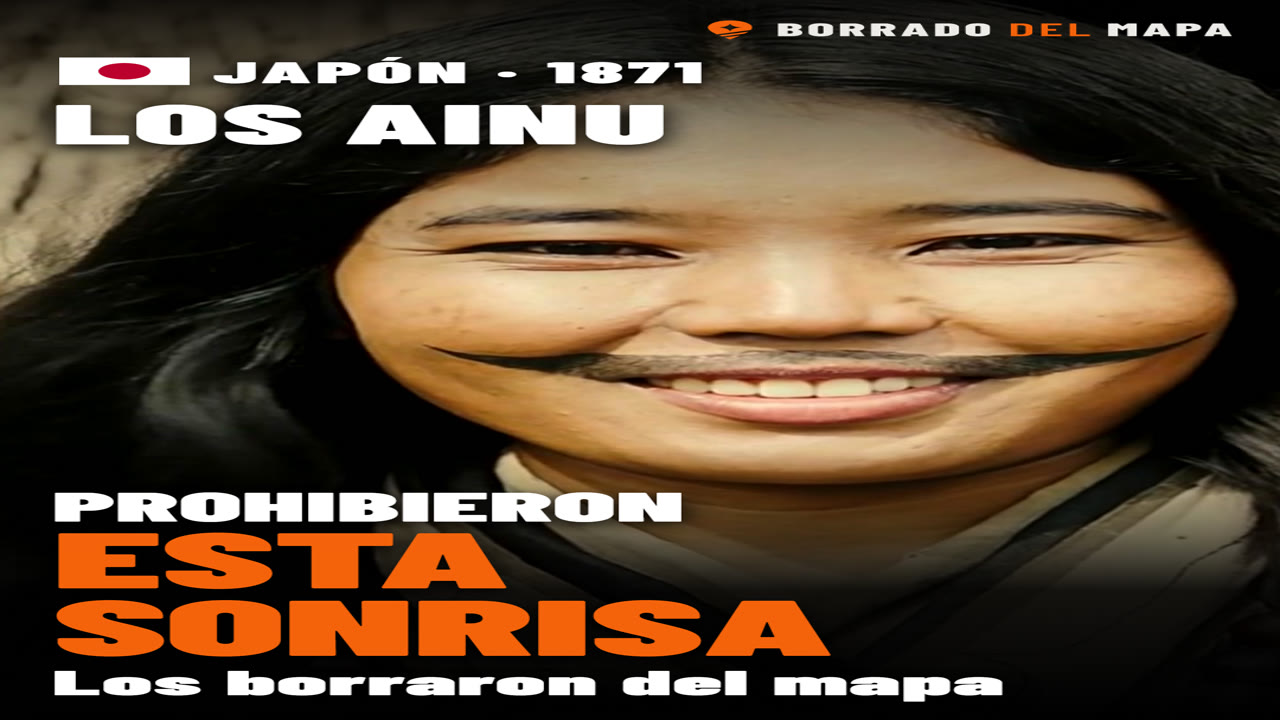
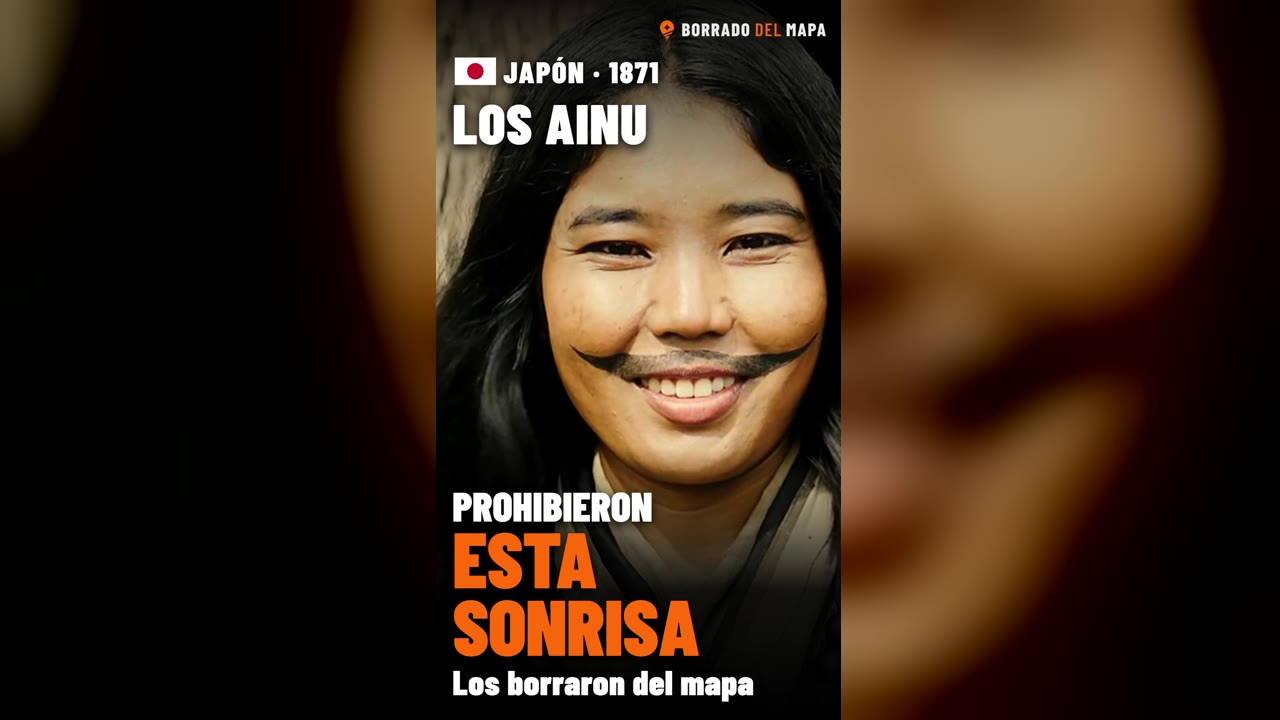
[web] Isabella Bird: la portada del blog ya no sale estirada (carátula vertical entera sobre su fondo desenfocado); las 16:9 no cambian

diff --git a/blog/viajes/los-ainu-confiaron-en-una-viajera-inglesa.html b/blog/viajes/los-ainu-confiaron-en-una-viajera-inglesa.html
@@ -9,7 +9,7 @@
 <meta property="og:title" content="Isabella Bird y los ainu: le pidieron que el Gobierno no se enterara">
 <meta property="og:description" content="En 1878, los ainu de Biratori, en Hokkaido, le suplicaron a una viajera inglesa que no contara al Gobierno japonés lo que le enseñaban. Dos años después, Isabella Bird lo publicó todo en Londres. Hoy ese libro se lee en japonés.">
 <meta property="og:url" content="https://borradodelmapa.com/blog/viajes/los-ainu-confiaron-en-una-viajera-inglesa">
-<meta property="og:image" content="https://borradodelmapa.com/blog/viajes/img/los-ainu-confiaron-en-una-viajera-inglesa.jpg?v=d49f0b04">
+<meta property="og:image" content="https://borradodelmapa.com/blog/viajes/img/los-ainu-confiaron-en-una-viajera-inglesa.jpg?v=e2f85857">
 <meta property="og:site_name" content="Borrado del Mapa">
 <meta name="twitter:card" content="summary_large_image">
 <link rel="canonical" href="https://borradodelmapa.com/blog/viajes/los-ainu-confiaron-en-una-viajera-inglesa">
@@ -20,7 +20,7 @@
  "@type": "Article",
  "headline": "Isabella Bird y los ainu: le pidieron que el Gobierno no se enterara",
  "description": "En 1878, los ainu de Biratori, en Hokkaido, le suplicaron a una viajera inglesa que no contara al Gobierno japonés lo que le enseñaban. Dos años después, Isabella Bird lo publicó todo en Londres. Hoy ese libro se lee en japonés.",
- "image": "https://borradodelmapa.com/blog/viajes/img/los-ainu-confiaron-en-una-viajera-inglesa.jpg?v=d49f0b04",
+ "image": "https://borradodelmapa.com/blog/viajes/img/los-ainu-confiaron-en-una-viajera-inglesa.jpg?v=e2f85857",
  "author": {
   "@type": "Person",
   "name": "Salma"
@@ -42,7 +42,7 @@
  "name": "Isabella Bird y los ainu: le pidieron que el Gobierno no se enterara",
  "description": "En 1878, los ainu de Biratori, en Hokkaido, le suplicaron a una viajera inglesa que no contara al Gobierno japonés lo que le enseñaban. Dos años después, Isabella Bird lo publicó todo en Londres. Hoy ese libro se lee en japonés.",
  "uploadDate": "2026-11-26",
- "thumbnailUrl": "https://borradodelmapa.com/blog/viajes/img/los-ainu-confiaron-en-una-viajera-inglesa.jpg?v=d49f0b04",
+ "thumbnailUrl": "https://borradodelmapa.com/blog/viajes/img/los-ainu-confiaron-en-una-viajera-inglesa.jpg?v=e2f85857",
  "contentUrl": "https://borradodelmapa.com/blog/viajes/video/los-ainu-confiaron-en-una-viajera-inglesa.mp4",
  "duration": "PT2M0S"
 }
@@ -107,7 +107,7 @@
 <p class="pb-crumb"><a href="/blog/">Blog de viajes</a> › <a href="/destinos/">Destinos</a> › <a href="/destinos/japon.html">Japón</a> › <b>Isabella Bird y los ainu</b></p>
 <main class="bd-main">
   <header class="bd-hero car">
-    <img src="/blog/viajes/img/los-ainu-confiaron-en-una-viajera-inglesa.jpg?v=d49f0b04" alt="" fetchpriority="high">
+    <img src="/blog/viajes/img/los-ainu-confiaron-en-una-viajera-inglesa.jpg?v=e2f85857" alt="" fetchpriority="high">
     <div class="bd-hero-txt">
       <span class="bd-kicker">Pueblos borrados del mapa · Diario de grandes viajeros · 1</span>
       <h1 class="bd-title">Isabella Bird y los ainu: le pidieron que el Gobierno no se enterara</h1>
@@ -117,7 +117,7 @@
   <div class="bd-layout con-hero">
 
     <div class="bd-media">
-      <video class="bd-video" controls playsinline preload="metadata" poster="/blog/viajes/img/los-ainu-confiaron-en-una-viajera-inglesa.jpg?v=d49f0b04" src="/blog/viajes/video/los-ainu-confiaron-en-una-viajera-inglesa.mp4"></video>
+      <video class="bd-video" controls playsinline preload="metadata" poster="/blog/viajes/img/los-ainu-confiaron-en-una-viajera-inglesa.jpg?v=e2f85857" src="/blog/viajes/video/los-ainu-confiaron-en-una-viajera-inglesa.mp4"></video>
       <div class="bd-video-meta"><span>Vídeo · 2:00</span><span>Narra Salma</span></div>
       <div class="bd-acciones"><a class="bd-suscribirse" href="https://www.youtube.com/@Borradodelmapa?sub_confirmation=1" target="_blank" rel="noopener"><svg width="18" height="18" viewBox="0 0 24 24" fill="currentColor" aria-hidden="true"><path d="M23.498 6.186a3.016 3.016 0 0 0-2.122-2.136C19.505 3.545 12 3.545 12 3.545s-7.505 0-9.377.505A3.017 3.017 0 0 0 .502 6.186C0 8.07 0 12 0 12s0 3.93.502 5.814a3.016 3.016 0 0 0 2.122 2.136c1.871.505 9.376.505 9.376.505s7.505 0 9.377-.505a3.015 3.015 0 0 0 2.122-2.136C24 15.93 24 12 24 12s0-3.93-.502-5.814zM9.545 15.568V8.432L15.818 12l-6.273 3.568z"/></svg><span>Suscríbete al canal</span></a><button class="bd-compartir" type="button"><svg width="16" height="16" viewBox="0 0 24 24" fill="none" stroke="currentColor" stroke-width="2.2" stroke-linecap="round" stroke-linejoin="round" aria-hidden="true"><circle cx="18" cy="5" r="3"/><circle cx="6" cy="12" r="3"/><circle cx="18" cy="19" r="3"/><line x1="8.6" y1="13.5" x2="15.4" y2="17.5"/><line x1="15.4" y1="6.5" x2="8.6" y2="10.5"/></svg><span>Compartir info</span></button></div>
       <p class="bd-ia"><a href="/stories/los-ainu-confiaron-en-una-viajera-inglesa/">Verlo en formato story</a>, a pantalla completa y deslizando.</p>

diff --git a/scripts/build-blog-viajes.js b/scripts/build-blog-viajes.js
@@ -61,6 +61,13 @@ if (!PIE_Y_MENU.includes('app-bottom-bar')) throw new Error('No encuentro el men
 // Web Story (8 nov 2026): si la entrada tiene `story`, debajo del vídeo sale el enlace a /stories/<slug>/ (la genera scripts/build-stories.js)
 const { duracionMp4, portadaDe } = require('./video-info.cjs');
 
+// Carátula 16:9 → se escala tal cual; otra proporción (la vertical de un short) → entera sobre su propio fondo desenfocado, sin estirar (25 nov 2026)
+function filtroCaratula(car) {
+  const m = require('child_process').spawnSync(path.join(MKT, 'salma marketing/india/herramientas/node_modules/ffmpeg-static/ffmpeg.exe'), ['-i', car]).stderr.toString().match(/, (\d{2,5})x(\d{2,5})/);
+  if (m && Math.abs(m[1] / m[2] - 16 / 9) < 0.02) return ['-vf', 'scale=1280:720'];
+  return ['-filter_complex', '[0]scale=1280:720:force_original_aspect_ratio=increase,crop=1280:720,boxblur=28:2,eq=brightness=-0.22[bg];[0]scale=1280:720:force_original_aspect_ratio=decrease[fg];[bg][fg]overlay=(W-w)/2:(H-h)/2'];
+}
+
 fs.mkdirSync(OUT_VIDEO, { recursive: true });
 caps.forEach((c, i) => {
   if (!c.video) { // entrada sin vídeo (artículo de país, guía, fiestas…; 4 nov 2026): solo portada
@@ -72,10 +79,10 @@ caps.forEach((c, i) => {
   // En una copia sin «salma marketing» (worktree), vale el vídeo ya publicado en blog/viajes/video/
   if (!fs.existsSync(src)) { if (!fs.existsSync(dst)) throw new Error('Falta el vídeo ' + src); }
   else if (!fs.existsSync(dst) || fs.statSync(dst).size !== fs.statSync(src).size) fs.copyFileSync(src, dst);
-  if (c.caratula && c.caratula !== 'web') { // 'web' = la carátula es la imagen ya publicada en blog/viajes/img/<slug>.jpg (se cambió a mano en la web); no se copia nada. // la carátula manda: se copia a 1280×720 cuando cambia (en una copia sin «salma marketing», vale la ya publicada)
+  if (c.caratula && c.caratula !== 'web') { // 'web' = la carátula es la imagen ya publicada en blog/viajes/img/<slug>.jpg (se cambió a mano en la web); no se copia nada. // la carátula manda: se copia a 1280×720 cuando cambia; una vertical va entera sobre su fondo desenfocado, sin estirar (25 nov 2026) (en una copia sin «salma marketing», vale la ya publicada)
     const car = c.caratula.includes('/') ? path.join(MKT, c.caratula) : path.join(CARATULAS, c.caratula + '-Y18.jpg'), dp = path.join(OUT, 'img', c.slug + '.jpg'); // c.caratula: id de caratulas-y18 o ruta dentro de salma marketing
     if (fs.existsSync(car)) { // siempre: ffmpeg da el mismo JPG si la carátula no cambia
-      const r = require('child_process').spawnSync(path.join(MKT, 'salma marketing/india/herramientas/node_modules/ffmpeg-static/ffmpeg.exe'), ['-v', 'error', '-y', '-i', car, '-vf', 'scale=1280:720', '-map_metadata', '-1', '-q:v', '3', dp]);
+      const r = require('child_process').spawnSync(path.join(MKT, 'salma marketing/india/herramientas/node_modules/ffmpeg-static/ffmpeg.exe'), ['-v', 'error', '-y', '-i', car, ...filtroCaratula(car), '-map_metadata', '-1', '-q:v', '3', dp]);
       if (r.status || r.error) throw new Error('No puedo copiar la carátula de ' + c.slug + ': ' + (r.stderr || r.error));
     }
   }

diff --git a/blog/index.html b/blog/index.html
@@ -98,7 +98,7 @@
         <div class="bv-card-m">Vídeo</div>
       </a>
       <a class="bv-card" href="/blog/viajes/los-ainu-confiaron-en-una-viajera-inglesa">
-        <div class="bv-poster"><img src="/blog/viajes/img/los-ainu-confiaron-en-una-viajera-inglesa.jpg?v=d49f0b04" alt="Isabella Bird y los ainu: le pidieron que el Gobierno no se enterara" loading="lazy"><span class="bv-chip">Diario de grandes viajeros · 1</span><span class="bv-dur">2:00</span><span class="bv-play" aria-hidden="true"></span></div>
+        <div class="bv-poster"><img src="/blog/viajes/img/los-ainu-confiaron-en-una-viajera-inglesa.jpg?v=e2f85857" alt="Isabella Bird y los ainu: le pidieron que el Gobierno no se enterara" loading="lazy"><span class="bv-chip">Diario de grandes viajeros · 1</span><span class="bv-dur">2:00</span><span class="bv-play" aria-hidden="true"></span></div>
         <div class="bv-card-t">Isabella Bird y los ainu: le pidieron que el Gobierno no se enterara</div>
         <div class="bv-card-m">Vídeo</div>
       </a>

diff --git a/pueblos.html b/pueblos.html
@@ -69,7 +69,7 @@
         <div class="bv-card-m">Vídeo</div>
       </a>
       <a class="bv-card" href="/blog/viajes/los-ainu-confiaron-en-una-viajera-inglesa">
-        <div class="bv-poster"><img src="/blog/viajes/img/los-ainu-confiaron-en-una-viajera-inglesa.jpg?v=d49f0b04" alt="Isabella Bird y los ainu: le pidieron que el Gobierno no se enterara" loading="lazy"><span class="bv-chip">Diario de grandes viajeros · 1</span><span class="bv-dur">2:00</span><span class="bv-play" aria-hidden="true"></span></div>
+        <div class="bv-poster"><img src="/blog/viajes/img/los-ainu-confiaron-en-una-viajera-inglesa.jpg?v=e2f85857" alt="Isabella Bird y los ainu: le pidieron que el Gobierno no se enterara" loading="lazy"><span class="bv-chip">Diario de grandes viajeros · 1</span><span class="bv-dur">2:00</span><span class="bv-play" aria-hidden="true"></span></div>
         <div class="bv-card-t">Isabella Bird y los ainu: le pidieron que el Gobierno no se enterara</div>
         <div class="bv-card-m">Vídeo</div>
       </a>

diff --git a/blog/viajes/india-sentineleses-isla-que-no-se-visita.html b/blog/viajes/india-sentineleses-isla-que-no-se-visita.html
@@ -302,7 +302,7 @@
 
     <div class="bd-next">
       <a class="bd-nx" href="/blog/viajes/los-ainu-confiaron-en-una-viajera-inglesa">
-        <img src="/blog/viajes/img/los-ainu-confiaron-en-una-viajera-inglesa.jpg?v=d49f0b04" alt="" loading="lazy">
+        <img src="/blog/viajes/img/los-ainu-confiaron-en-una-viajera-inglesa.jpg?v=e2f85857" alt="" loading="lazy">
         <span><small>Anterior</small><b>Isabella Bird y los ainu: le pidieron que el Gobierno no se enterara</b></span>
       </a>
       <a class="bd-nx der" href="/blog/viajes/shompen-gran-nicobar-megapuerto-va-a-devorar-su-selva">

diff --git a/blog/viajes/mlabri-los-espiritus-de-las-hojas-amarillas.html b/blog/viajes/mlabri-los-espiritus-de-las-hojas-amarillas.html
@@ -246,7 +246,7 @@
         <span><small>Anterior</small><b>Los moken: los nómadas del mar de Andamán</b></span>
       </a>
       <a class="bd-nx der" href="/blog/viajes/los-ainu-confiaron-en-una-viajera-inglesa">
-        <img src="/blog/viajes/img/los-ainu-confiaron-en-una-viajera-inglesa.jpg?v=d49f0b04" alt="" loading="lazy">
+        <img src="/blog/viajes/img/los-ainu-confiaron-en-una-viajera-inglesa.jpg?v=e2f85857" alt="" loading="lazy">
         <span><small>Siguiente</small><b>Isabella Bird y los ainu: le pidieron que el Gobierno no se enterara</b></span>
       </a>
     </div>
